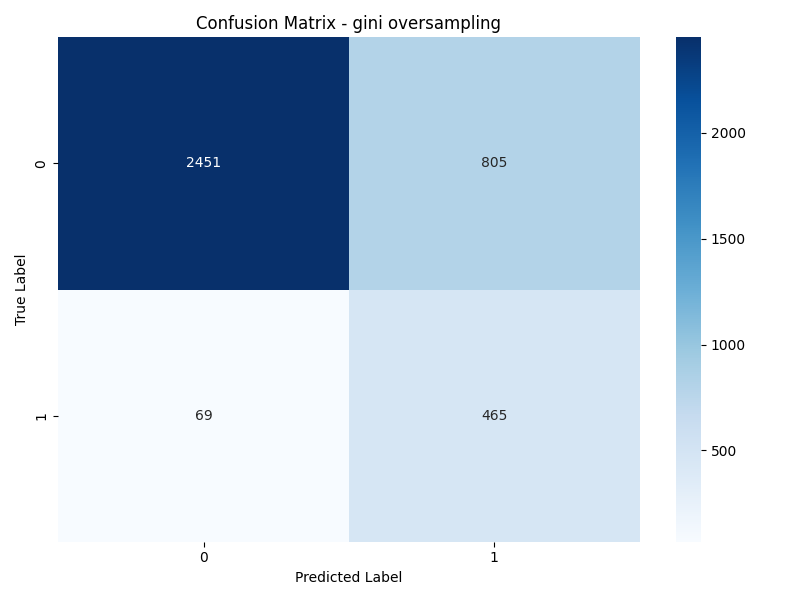
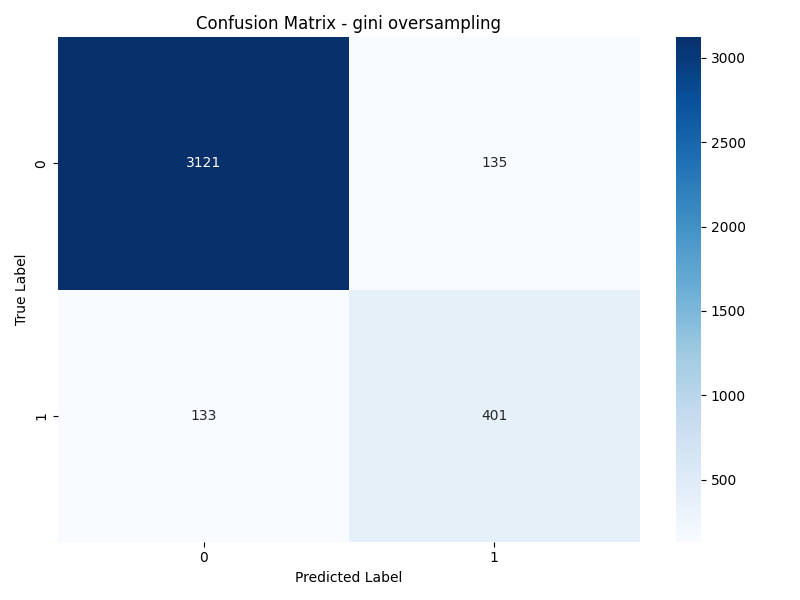
Improve data sampling and model evaluation

diff --git a/Decision_Trees/decision_tree_tuning.py b/Decision_Trees/decision_tree_tuning.py
@@ -59,16 +59,12 @@ class HyperparameterTuning:
         # Apply sampling strategy
         if sampling_strategy == 'oversampling':
             # Random oversampling
-            sampler = RandomUnderSampler(
-                sampling_strategy='majority',
-                random_state=RANDOM_STATE
-            )
+            sampler = RandomOverSampler(random_state=RANDOM_STATE)
             X_resampled, y_resampled = sampler.fit_resample(X, y)
             
         elif sampling_strategy == 'undersampling':
             # Random undersampling
             sampler = RandomUnderSampler(
-                sampling_strategy='majority',
                 random_state=RANDOM_STATE
             )
             X_resampled, y_resampled = sampler.fit_resample(X, y)
@@ -86,7 +82,7 @@ class HyperparameterTuning:
             else:
                 # Fall back to random oversampling for small datasets
                 logging.info("Not enough samples for SMOTE. Falling back to random oversampling.")
-                from imblearn.over_sampling import RandomOverSampler
+
                 sampler = RandomOverSampler(random_state=RANDOM_STATE)
                 X_resampled, y_resampled = sampler.fit_resample(X, y)
         

diff --git a/Decision_Trees/insights/tuning/results.md b/Decision_Trees/insights/tuning/results.md
@@ -6,10 +6,10 @@
 | gini | 90.93 | 94.01 | 0.7924 | 0.7790 | 0.7856 | original |
 | entropy | 90.75 | 93.11 | 0.7468 | 0.7734 | 0.7599 | original |
 | weighted | 91.01 | 94.85 | 0.8291 | 0.7996 | 0.8141 | original |
-| basic oversampling | 74.75 | 76.94 | 0.3661 | 0.8708 | 0.5155 | oversampling |
-| gini oversampling | 74.75 | 76.94 | 0.3661 | 0.8708 | 0.5155 | oversampling |
-| entropy oversampling | 76.96 | 74.25 | 0.3331 | 0.8258 | 0.4747 | oversampling |
-| weighted oversampling | 74.75 | 76.94 | 0.3661 | 0.8708 | 0.5155 | oversampling |
+| basic oversampling | 97.10 | 92.93 | 0.7481 | 0.7509 | 0.7495 | oversampling |
+| gini oversampling | 97.10 | 92.93 | 0.7481 | 0.7509 | 0.7495 | oversampling |
+| entropy oversampling | 97.15 | 92.74 | 0.7430 | 0.7416 | 0.7423 | oversampling |
+| weighted oversampling | 97.13 | 92.93 | 0.7481 | 0.7509 | 0.7495 | oversampling |
 | basic undersampling | 74.75 | 76.94 | 0.3661 | 0.8708 | 0.5155 | undersampling |
 | gini undersampling | 74.75 | 76.94 | 0.3661 | 0.8708 | 0.5155 | undersampling |
 | entropy undersampling | 76.96 | 74.25 | 0.3331 | 0.8258 | 0.4747 | undersampling |

diff --git a/Decision_Trees/insights/unseen_testing/unseen_results.md b/Decision_Trees/insights/unseen_testing/unseen_results.md
@@ -6,10 +6,10 @@
 | gini | None | 80.00 | 0.0000 | 0.0000 | 0.0000 |
 | entropy | None | 80.00 | 0.0000 | 0.0000 | 0.0000 |
 | weighted | None | 100.00 | 1.0000 | 1.0000 | 1.0000 |
-| basic oversampling | oversampling | 25.00 | 0.0000 | 0.0000 | 0.0000 |
-| gini oversampling | oversampling | 25.00 | 0.0000 | 0.0000 | 0.0000 |
-| entropy oversampling | oversampling | 0.00 | 0.0000 | 0.0000 | 0.0000 |
-| weighted oversampling | oversampling | 25.00 | 0.0000 | 0.0000 | 0.0000 |
+| basic oversampling | oversampling | 100.00 | 1.0000 | 1.0000 | 1.0000 |
+| gini oversampling | oversampling | 100.00 | 1.0000 | 1.0000 | 1.0000 |
+| entropy oversampling | oversampling | 75.00 | 1.0000 | 0.5000 | 0.6667 |
+| weighted oversampling | oversampling | 100.00 | 1.0000 | 1.0000 | 1.0000 |
 | basic undersampling | undersampling | 25.00 | 0.0000 | 0.0000 | 0.0000 |
 | gini undersampling | undersampling | 25.00 | 0.0000 | 0.0000 | 0.0000 |
 | entropy undersampling | undersampling | 0.00 | 0.0000 | 0.0000 | 0.0000 |

diff --git a/Decision_Trees/insights/unseen_testing/unseen_results_by_sampling.md b/Decision_Trees/insights/unseen_testing/unseen_results_by_sampling.md
@@ -14,10 +14,10 @@
 
 | Model | Accuracy | Precision | Recall | F1-Score |
 |-------|----------|-----------|--------|----------|
-| basic oversampling | 25.00 | 0.0000 | 0.0000 | 0.0000 |
-| gini oversampling | 25.00 | 0.0000 | 0.0000 | 0.0000 |
-| entropy oversampling | 0.00 | 0.0000 | 0.0000 | 0.0000 |
-| weighted oversampling | 25.00 | 0.0000 | 0.0000 | 0.0000 |
+| basic oversampling | 100.00 | 1.0000 | 1.0000 | 1.0000 |
+| gini oversampling | 100.00 | 1.0000 | 1.0000 | 1.0000 |
+| entropy oversampling | 75.00 | 1.0000 | 0.5000 | 0.6667 |
+| weighted oversampling | 100.00 | 1.0000 | 1.0000 | 1.0000 |
 
 ## Undersampling Strategy
 
